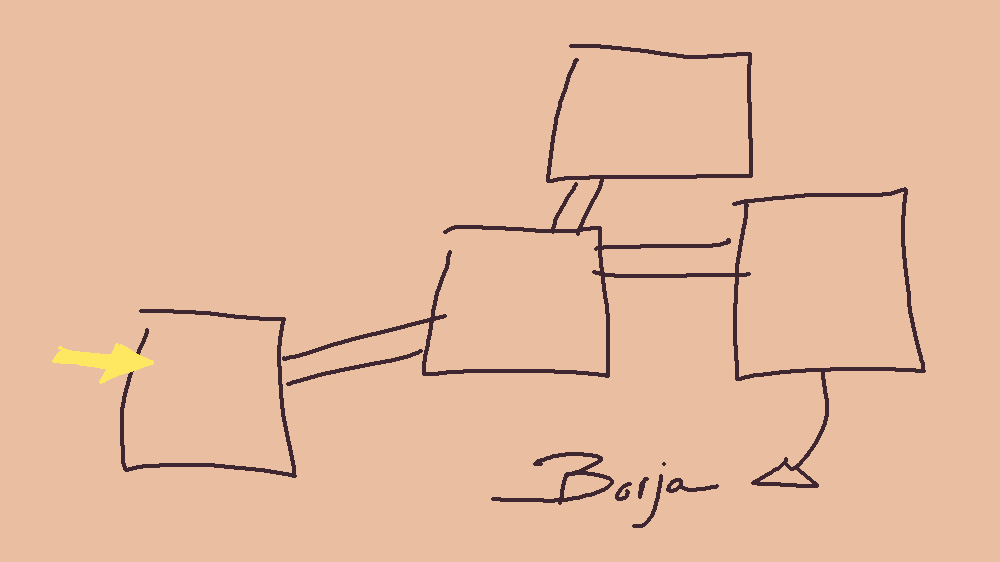
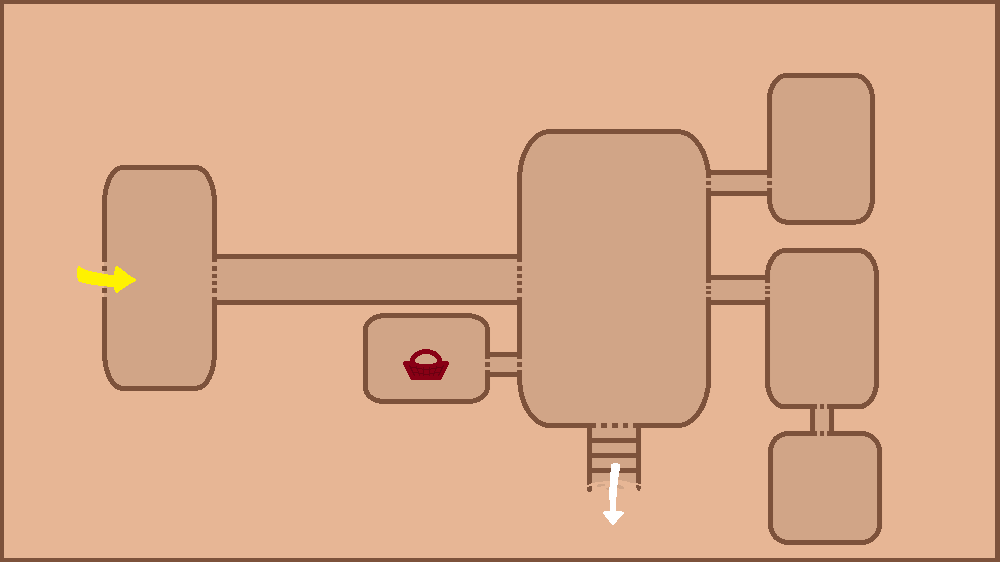
mapa FDI y exterior rotado

diff --git a/src/scenes/FDI_scenes/informaticaManager.js b/src/scenes/FDI_scenes/informaticaManager.js
@@ -121,8 +121,8 @@ export default class informaticaManager extends Phaser.Scene {
   create() {
     this.mapStatus = new Map();
     this.mapStatus.set("FDI_Boss_2", false);
-  // this.scene.start("FDI_1", {x: 358, y:170, playerStats: this.playerStats, managerKey: "informaticaManager", status: this.mapStatus.get("FDI_1")});
-    this.scene.start("FDI_Boss_2", {x: 100, y:100, playerStats: this.playerStats, managerKey: "informaticaManager", status: this.mapStatus.get("FDI_4")});    
+   this.scene.start("FDI_1", {x: 50, y:170, playerStats: this.playerStats, managerKey: "informaticaManager", status: this.mapStatus.get("FDI_1")});
+  //  this.scene.start("FDI_Boss_2", {x: 100, y:100, playerStats: this.playerStats, managerKey: "informaticaManager", status: this.mapStatus.get("FDI_4")});    
   } //358 170
 
   cambiarSala(zone){

diff --git a/src/scenes/FDI_scenes/FDI_1.js b/src/scenes/FDI_scenes/FDI_1.js
@@ -86,7 +86,7 @@ export default class FDI_1 extends SalaBase {
         ];
 
         // Crear el NPC tipo hippie
-        this.hippieNPC = new DialogueNPC(this, 180, 220, 'hippie', 'Estudiante', frasesFilosoficas);
+        this.hippieNPC = new DialogueNPC(this, 300, 220, 'hippie', 'Estudiante', frasesFilosoficas);
 
         // Detección de impacto entre balas y el NPC
         this.physics.add.overlap(this.bulletGroup, this.hippieNPC, (bullet, npc) => {
